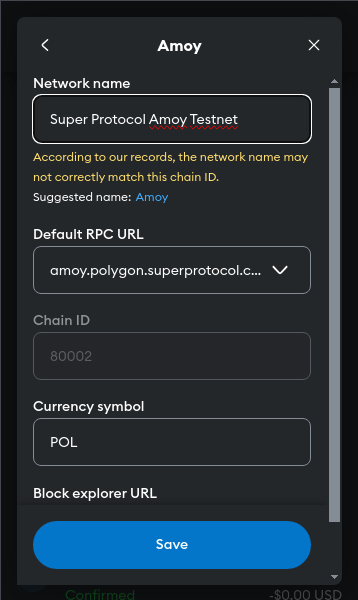
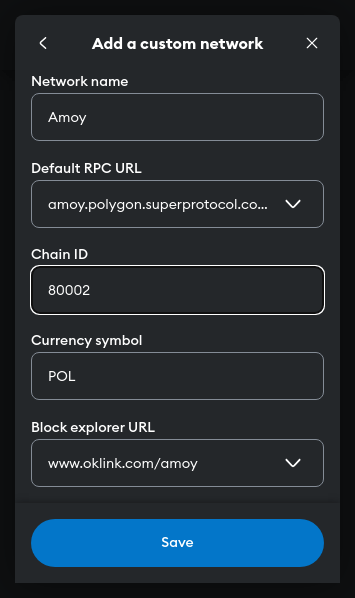
Marketplace
Updated guides

diff --git a/docs/marketplace/guides/place-order.md b/docs/marketplace/guides/place-order.md
@@ -2,59 +2,58 @@
 id: "place-order"
 title: "How to Place an Order"
 slug: "/guides/place-order"
-sidebar_position: 3
+sidebar_position: 2
 ---
 
 This guide provides step-by-step instructions on how to build and place an order on Super Protocol.
 
-Marketplace has a tool called **Order Builder** to pick the order's components, configure them, calculate prices, and place orders. Refer to the [Order Builder](/marketplace/orders/order-builder) documentation to learn more.
-
 ## Step 1. Select a model
 
-Select a model you want to deploy. You can add either a model from the Marketplace or from your uploaded content.
+Select a model you want to deploy. You can add either a model from the Marketplace or your own model from My Content.
 
-### Marketplace offer
+### From the Marketplace
 
 To lease a model listed on the Marketplace, open the list of available **Models** and click the blue **[+]** button next to a model you want to add to the order.
 
 <img src={require('../images/models-open.png').default} width="auto" height="auto" border="1"/>
 <br/>
-<br/>
 
-Once you add the model, open the **Order Builder** by clicking **Order** in the top panel of the Marketplace web app.
+### Your model
 
-<img src={require('../images/order-builder-open.png').default} width="auto" height="auto" border="1"/>
-<br/>
-
-### Your content
-
+To add your own model, you must prepare and upload it first. Read [How to Upload a Model](/marketplace/guides/upload) for step-by-step instructions.
 To add your own model, you must prepare and upload it first. Read [How to Upload a Model](/marketplace/guides/upload) for step-by-step instructions.
 
 When your model is uploaded, open **My Files** with the list of your uploaded models and click the blue **[+]** button next to the model to add it to the order.
 
 <img src={require('../images/myfiles-open.png').default} width="auto" height="auto" border="1"/>
 <br/>
-<br/>
+
+### Open Order Builder
 
 Once you add a model, open the **Order Builder** by clicking **Order** in the top panel of the Marketplace web app.
 
 <img src={require('../images/order-builder-open.png').default} width="auto" height="auto" border="1"/>
 <br/>
+<br/>
+
+**Order Builder** is a tool to pick the order's components, configure them, calculate prices, and place orders. Refer to the [Order Builder](/marketplace/orders/order-builder) documentation to learn more.
 
 ## Step 2. Add an engine
 
 In the **Order Builder**, click **Select AI engine** to open the list of engines compatible with the added model.
 
+<img src={require('../images/order-builder-engine.png').default} width="auto" height="auto" border="1"/> 
+<br/>
+<br/>
+
 Each engine exists in two variants:
 
 - Engines marked as 'GPU only' run the model on an NVIDIA H100 Tensor Core GPU.
 - Engines marked as 'CPU only' run the model on an Intel TDX CPU. Models running in this mode are significantly slower. However, it may be a suitable way to deploy smaller models since the TDX-only compute is cheaper and may have more availability than TDX+H100.
+- Engines marked as 'GPU only' run the model on an NVIDIA H100 Tensor Core GPU.
+- Engines marked as 'CPU only' run the model on an Intel TDX CPU. Models running in this mode are significantly slower. However, it may be a suitable way to deploy smaller models since the TDX-only compute is cheaper and may have more availability than TDX+H100.
 
 Click the blue **[+]** button to add the engine to the order.
-
-<img src={require('../images/order-builder-engine.png').default} width="auto" height="auto" border="1"/> 
-<br/>
-<br/>
 
 Once you add the engine, its configuration will become available. Only make changes if you are confident in what you are doing, as modifying the engine's settings can cause the model to function incorrectly. For more information about the settings, refer to the documentation for [Text Generation Web UI](https://github.com/oobabooga/text-generation-webui/wiki) and [ComfyUI](https://docs.comfy.org/).
 
@@ -64,11 +63,15 @@ If a yellow warning icon appears, it indicates that the selected engine is [inco
 
 Once you add an engine, click **Select Compute** to open the list of available confidential computing devices.
 
+<img src={require('../images/order-builder-compute.png').default} width="auto" height="auto" border="1"/>
+<br/>
+<br/>
+
 Click the blue **[+]** button to add a compute to the order.
 
 :::warning
 
-If you add your uploaded model, ensure it fits into the total maximum compute configuration allowed for the testnet. Refer to the [Testnet Limitations](/marketplace/limitations).
+If you added your uploaded model, ensure it fits into the maximum compute configuration allowed for the testnet. Refer to the [Testnet Limitations](/marketplace/limitations).
 
 :::
 
@@ -81,16 +84,14 @@ The panel at the bottom of the screen displays the total prices:
 
 - **Fixed** is the total for all fixed-price offers.
 - **Per Hour** is the total for all hourly-priced offers.
-- **Lease Time** is the duration for which you plan to run the order.
+- **Lease Time** is the duration for which you plan to run the order. Offers may have limits on the minimum and maximum allowed lease time.
 - **Pay now** is the initial order deposit you must pay at checkout. It is calculated using the formula: **Fixed** + (**Per Hour** * **Lease Time**).
 
-Set the desired **Lease Time**.
+Set the desired **Lease Time**. During the testnet, it must be from two to four hours. Refer to the [Testnet Limitations](/marketplace/limitations).
 
 <img src={require('../images/order-builder-footer.png').default} width="auto" height="auto" border="1"/>
 <br/>
 <br/>
-
-Offers may have limits on the minimum and maximum allowed lease time. The lease time of your order must be two hours minimum. Refer to the [Testnet Limitations](/marketplace/limitations).
 
 Click the **Checkout** button. The system will check for [compatibility issues](/marketplace/orders/order-builder/compatibility) you need to fix. If there are no issues, the order will proceed to the next step.
 
@@ -102,12 +103,19 @@ Demo users do not need to confirm transactions; they do not pay using decentrali
 
 Web3 users, however, must confirm two transactions in MetaMask. The first transaction is for the main model's order; the second one is placed automatically to deploy a set of confidential tunnels to make the running model available from the internet. Learn more about [Tunnels](/fundamentals/tunnels).
 
-Each transaction may take 15-30 seconds to appear.
+If you create an order for the first time, you need to confirm the spending cap. Click **Next** and then **Approve**.
+
+<img src={require('../images/metamask-spending-cap.png').default} width="auto" height="auto" border="1"/>
+<br/>
+<br/>
+
+After that, confirm two transactions. Each may take 15-30 seconds to appear.
 
 <img src={require('../images/metamask-transaction.png').default} width="auto" height="auto" border="1"/>
 <br/>
 <br/>
 
+If the MetaMask browser extension does not open automatically, open it manually , select the transaction in the **Activity** tab, and confirm it.
 If the MetaMask browser extension does not open automatically, open it manually , select the transaction in the **Activity** tab, and confirm it.
 
 <img src={require('../images/metamask-transaction-manually.png').default} width="auto" height="auto" border="1"/>
@@ -115,9 +123,11 @@ If the MetaMask browser extension does not open automatically, open it manually 
 <br/>
 
 Once the Deploy order is placed successfully, you will be redirected to its [**Order**](/marketplace/orders/order) screen.
+Once the Deploy order is placed successfully, you will be redirected to its [**Order**](/marketplace/orders/order) screen.
 
 ## Step 6. Manage the order
 
+Your order may take about 30 minutes to process if you used a model from Marketplace and up to one hour for uploaded models. You can check the order status in the **Order** screen.
 Your order may take about 30 minutes to process if you used a model from Marketplace and up to one hour for uploaded models. You can check the order status in the **Order** screen.
 
 <img src={require('../images/order-full.png').default} width="auto" height="auto" border="1"/>
@@ -126,10 +136,11 @@ Your order may take about 30 minutes to process if you used a model from Marketp
 
 When the model is deployed and available, you will see **Online** in the tunnel's status. To interact with the model, use the **Access Link** to open the engine's web UI in your browser.
 
-To increase the time the model remains running, add tokens to the order deposit using the **Extend Lease** button.
-
 <img src={require('../images/order-online.png').default} width="auto" height="auto" border="1"/>
 <br/>
+<br/>
+
+To increase the time the model remains running, click the **Extend Lease** button and add tokens to the order deposit.
 
 ## Handling errors
 

diff --git a/docs/marketplace/orders/all-orders.md b/docs/marketplace/orders/all-orders.md
@@ -15,7 +15,7 @@ The table in the center of the screen provides essential information about your 
 
 - **Created Date** (hidden by default): the date and time when the customer placed the order.
 - **Modified Date**: the date and time of the latest change in the order status.
-- **Order ID**: a unique offer identification number. It is incremental and continuous for all orders and suborders on Super Protocol.
+- **Order ID**: a unique order identification number. It is incremental and continuous for all orders and suborders on Super Protocol.
 - **Status**: current status of the order. Learn more about [statuses](/fundamentals/orders#order-status).
 - **Cost to Date**: the total amount of TEE tokens spent on the order so far.
 - **Balance**: the remaining order balance. When it reaches zero, the order gets the Done status. You can replenish the balance using the **Extend Lease** button.

diff --git a/docs/marketplace/guides/log-in.md b/docs/marketplace/guides/log-in.md
@@ -92,7 +92,7 @@ Set the following parameters and press **Save**:
 
 | **Field** | **Value** |
 | :- | :- |
-| Network name | Super Protocol Polygon Amoy Testnet |
+| Network name | Amoy |
 | New RPC URL | https://amoy.polygon.superprotocol.com/hesoyam |
 | Chain ID | 80002 |
 | Currency symbol | POL |
@@ -111,7 +111,7 @@ Switch to the newly added network.
 
 ## Step 3. Connect the account
 
-In the main Marketplace screen, press the **Enter Marketplace** button.
+In the [Marketplace web app](https://marketplace.superprotocol.com/), press the **Enter Marketplace** button.
 
 <img src={require('../images/enter-marketplace-button.png').default} width="auto" height="auto" border="1"/>
 <br/>

diff --git a/docs/marketplace/orders/order/index.md b/docs/marketplace/orders/order/index.md
@@ -97,14 +97,9 @@ The **Providers** tab contains additional information about the order and its su
 <br/>
 <br/>
 
-- **ID**
-- **Type**
-- **Provider**
-- **Name**
-- **Status**
-- **Created Date**
-- **Modified Date**
-- **Cost**
+Click the suborder's **ID** number to open its **Order** screen. Note that some suborders may not be available to view.
+
+Read more about [order types](/fundamentals/orders).
 
 ## Tunnel Orders tab
 

diff --git a/docs/marketplace/guides/upload.md b/docs/marketplace/guides/upload.md
@@ -2,7 +2,7 @@
 id: "upload"
 title: "How to Upload a Model"
 slug: "/guides/upload"
-sidebar_position: 2
+sidebar_position: 3
 ---
 
 import Tabs from '@theme/Tabs';
